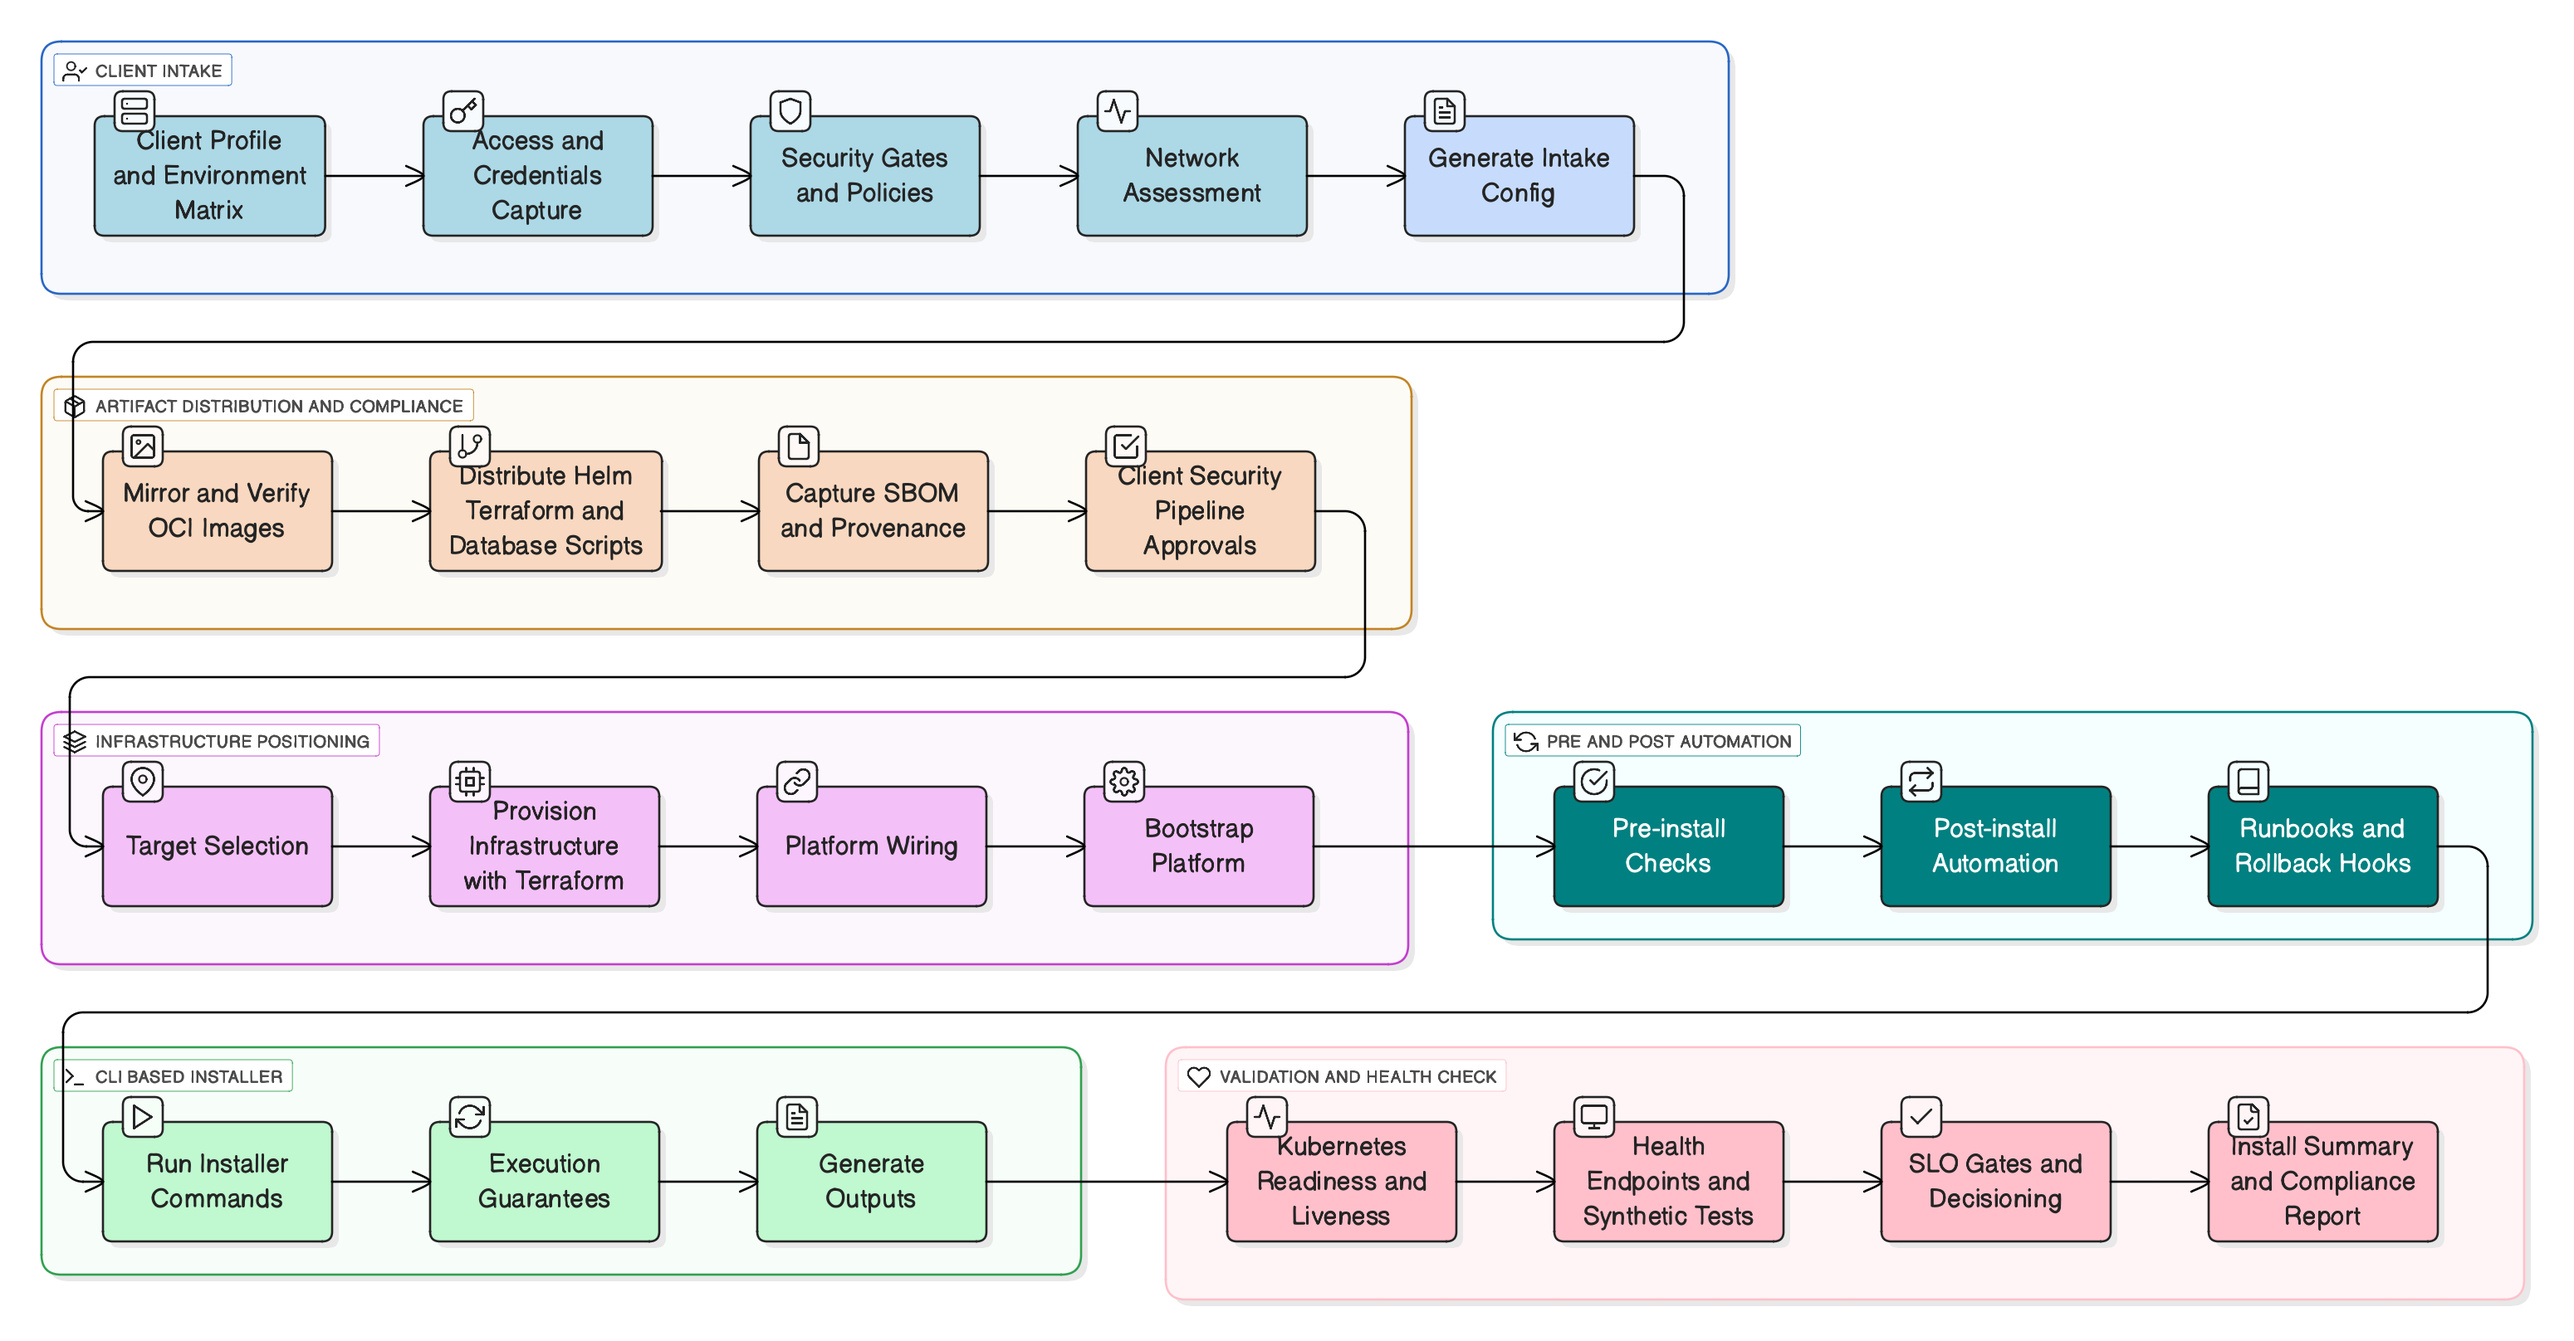
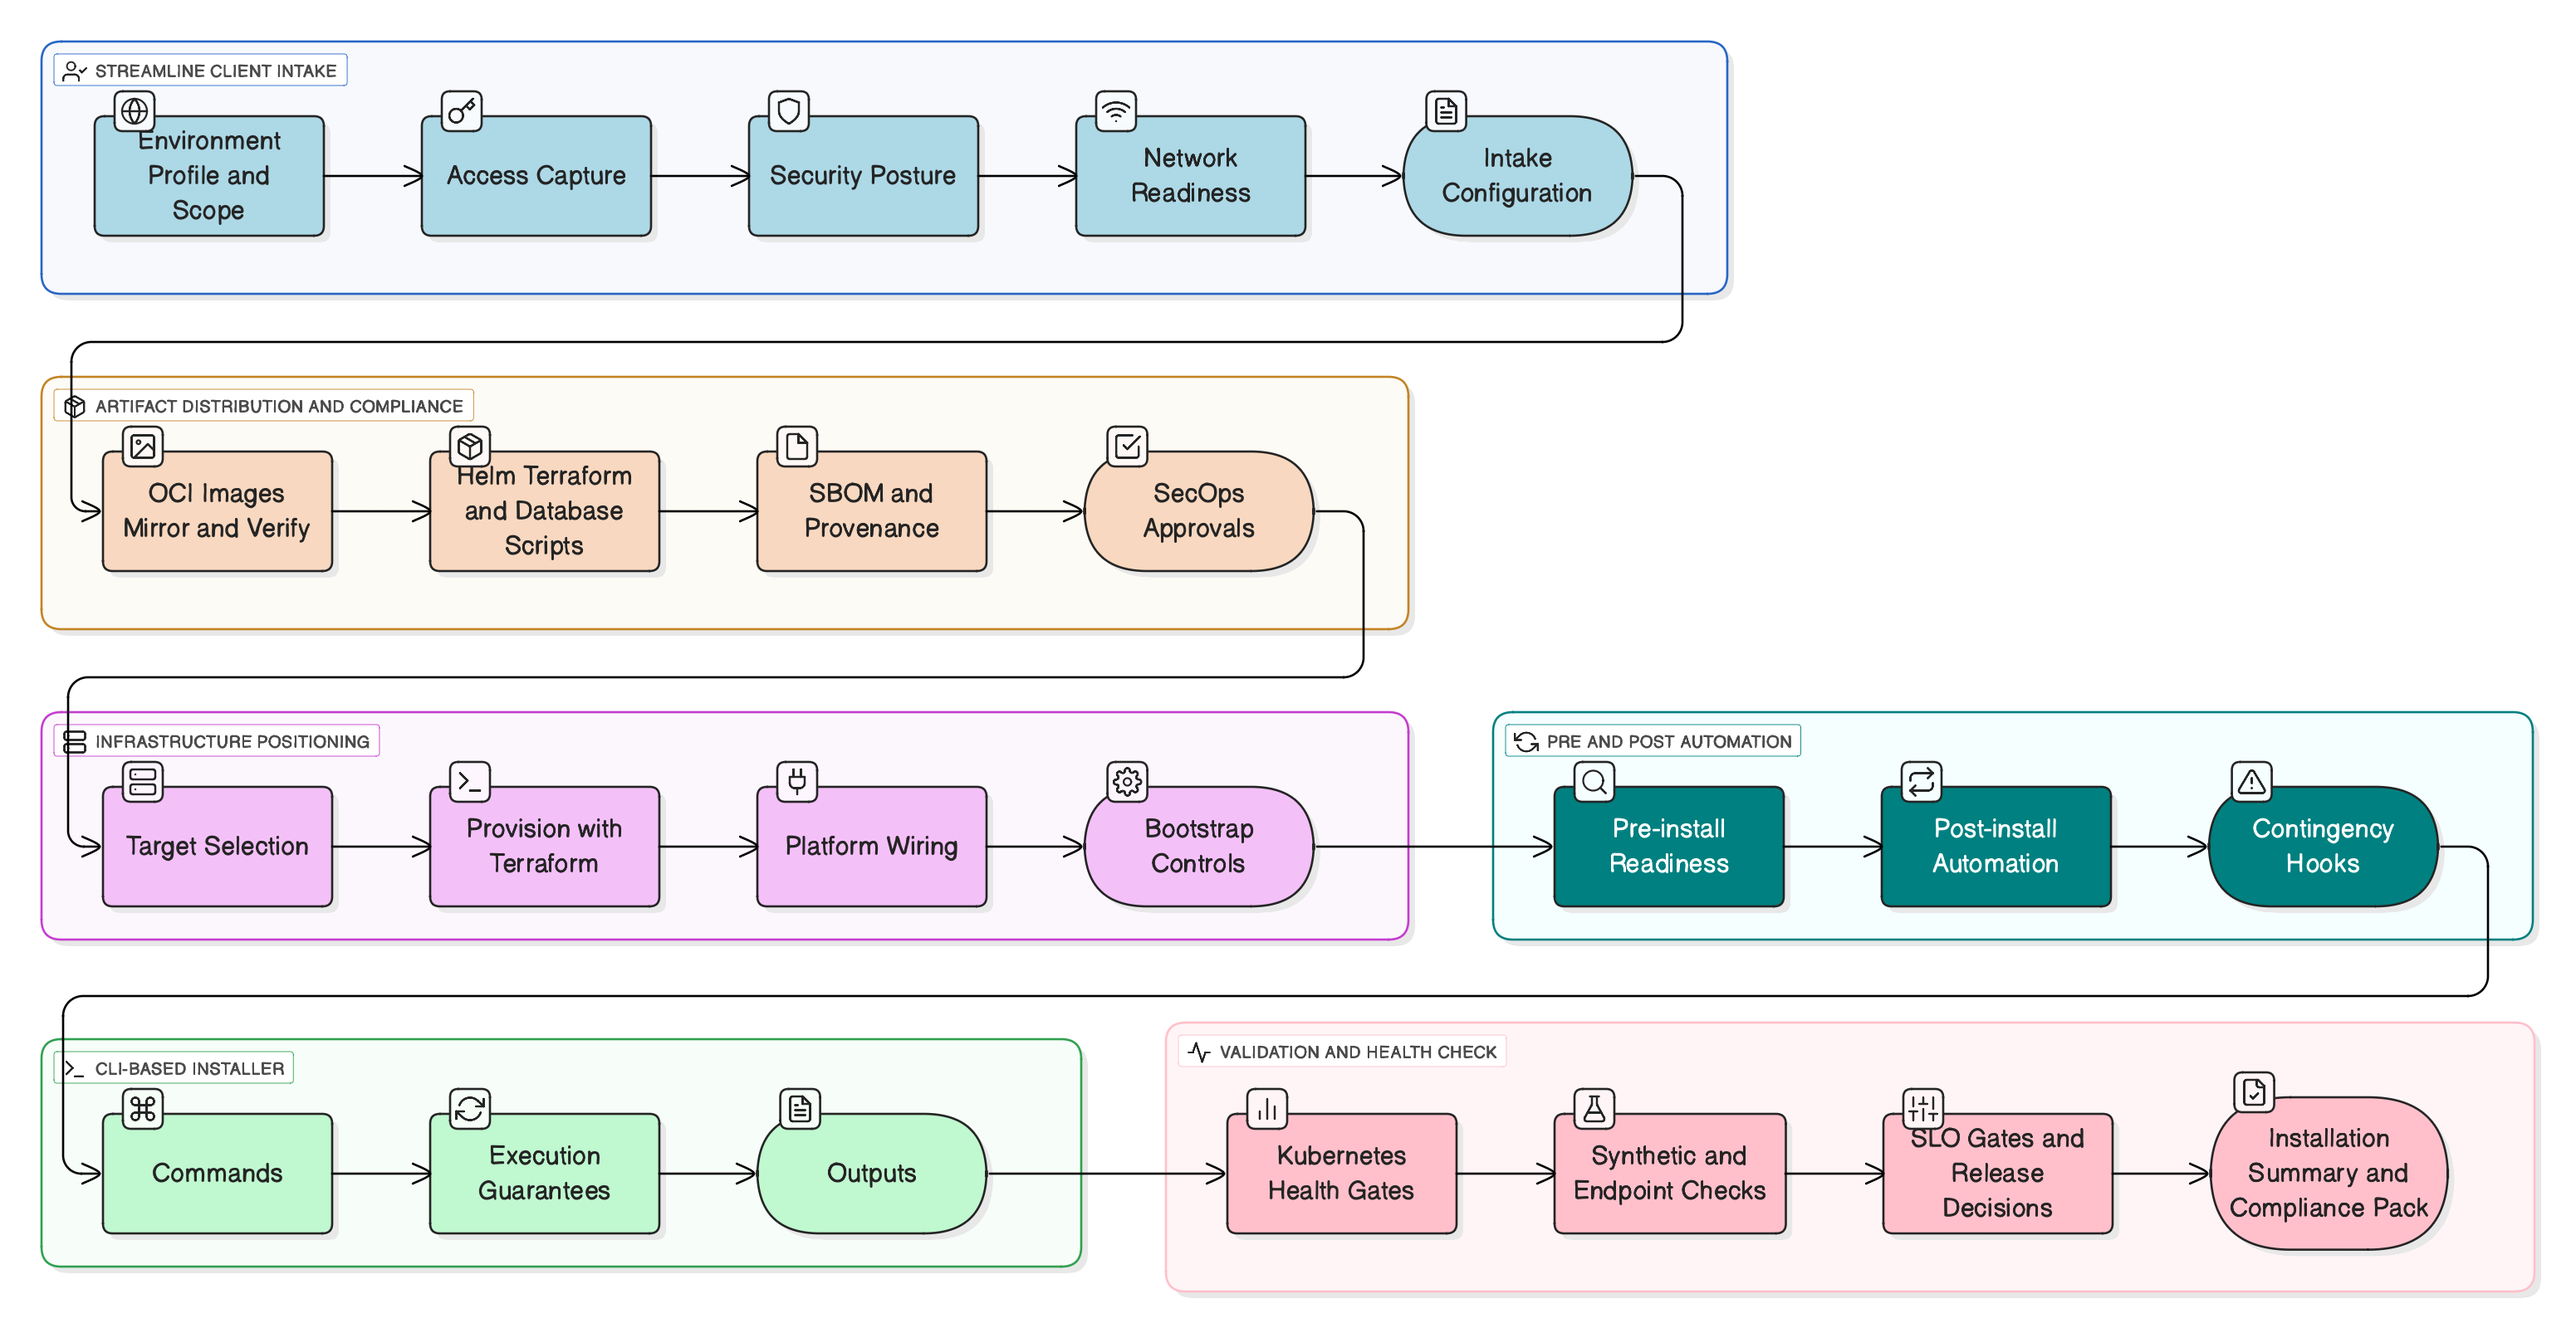
docs: Update deployment strategy document to correct image path and enhance visual representation

Changed region(s): [[0.0, 0.0311, 0.991, 0.7161], [0.0, 0.7161, 0.96, 0.934], [0.8361, 0.8095, 0.96, 0.9651]]

diff --git a/SLINGSHOT_DEPLOYMENT_STRATEGY.md b/SLINGSHOT_DEPLOYMENT_STRATEGY.md
@@ -152,7 +152,7 @@ gantt
 
 ### High-Level Architecture
 
-![e2e](./docs/image_e2e.png)
+![e2e](./docs/)
 
 ```mermaid
 flowchart LR
